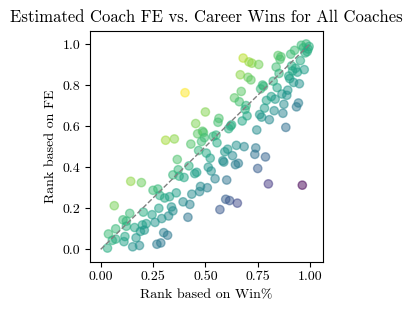
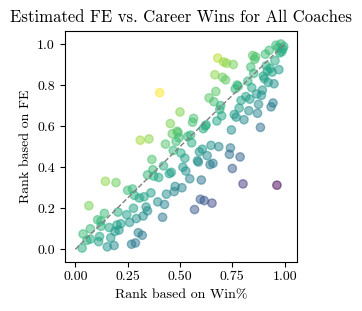
added table & updated chart (coach FE)

diff --git a/content/projects/coachfixedeffects.md b/content/projects/coachfixedeffects.md
@@ -3,16 +3,17 @@ date: 2020-04-01
 type: Sports Economics
 title: Quantifying the Coaching Effect in the NBA
 summary: The current analytics landscape lacks any systematic study of the coaching effect. I fill this gap by estimating a Coach-Fixed Effect model applied to the NBA. I find that the top coaches (e.g. Steve Kerr, K.C. Jones, Phil Jackson, and Greg Popovich), elevate team performance by as much as 20 wins per season. These estimated fixed effects are also useful in predicting team wins for future coach-team pairings. 
-featured_image: /images/posts/coaches/scatter_plot.png
-images: /images/posts/coaches/scatter_plot.png
+featured_image: /images/posts/coaches/scatter_plot_notitle.png
+images: /images/posts/coaches/scatter_plot_notitle.png
 draft: false
 weight: 1
 ---
 ![coach_faces] (/images/posts/coaches/thumbnail.png)
 
+
 ### Introduction
 
-At a Sloan Sports Analytic Conference, the moderator raised a question that had been on my mind for a while: "We have all these metrics for players, isn't it about time to have metrics for coaches?" It is quite evident, even to the casual fan, that some coaches are able to elevate team performance more than others. But the analytics community has yet to come up with a metric that systematically studies that. So, I've set out to fill this gap. 
+A few years ago at the Sloan Sports Analytic Conference, one of the moderators raised an important question, for which no panelist gave a clear answer: "We have all these metrics that capture player perfromance, isn't it time to have metrics for coaches?" It is quite evident, even to the casual observer, that some coaches are able to elevate team performance more than others. But the analytics community has yet to come up with a metric that systematically studies that. So, I've set out to fill this gap. 
 
 The project started as I was completing my Master's in Applied Economics, during which I happened to read a number of academic papers on sports economics. I came across [a paper](https://journals.sagepub.com/doi/abs/10.1177/1527002516674760)  on the impact of managers in the German Bundesliga, and decided to replicate the analysis on NBA coaches. I soon realized that the NBA was an ideal environment for two reasons:
 
@@ -77,3 +78,176 @@ My dataset covers all NBA teams between 1985 and 2018. The unit of observation i
 For a given coach in a given season *t*, I take into account the players' performance in season *t-1*. Specifically, I compute the roster's mean Value Over Replacement Player (VORP) from that season as a measure of its "quality".
 
 Using a 'fixed effect' regression model, I estimate the correlation between head coach identity and team wins for 209 head coaches (since 1985), while controlling for roster quality. What this produces is the [fixed effect](https://en.wikipedia.org/wiki/Fixed_effects_model) for each head coach. The resulting metric, which I am calling 'Coach Fixed Effect', measures the additional wins contributed, on average, while controlling for roster quality. 
+
+### Potential Shortcomings
+
+Since I use previous season performance as a proxy for player quality, these fixed effects could favor coaches with budding superstars (e.g. Scott Brooks with the Oklahoma City Thunder).
+
+As mentioned earlier, coaches with fewer observations (more recent careers) are subject to high standard errors. As such, they should be viewed with skepticism. For reference, the higher the 't-statistic', the lower the standard error.
+
+### Full Metrics
+
+Click [here](/files/results.csv) for a csv version of the below table.
+
+|     | Name               |Coach FE |    t_stat | Pct Rk (FE) | Pct Rk (Wins) |   Career Win% |
+|----:|:-------------------|--------:|----------:|------------:|--------------:|--------------:|
+|   0 | Nick Nurse         |   22.33 |      2.64 |           1 |          0.98 |          0.71 |
+|   1 | Danny Ainge        |   21.47 |      2.54 |        0.99 |          0.96 |          0.64 |
+|   2 | Steve Kerr         |   16.77 |      3.9  |        0.99 |          1    |          0.79 |
+|   3 | Gregg Popovich     |   16.65 |      8.53 |        0.98 |          0.97 |          0.69 |
+|   4 | Larry Bird         |   14.66 |      2.45 |        0.98 |          0.99 |          0.74 |
+|   5 | Tom Thibodeau      |   11.84 |      3.41 |        0.97 |          0.93 |          0.59 |
+|   6 | Billy Cunningham   |   11.63 |      1.37 |        0.96 |          0.99 |          0.72 |
+|   7 | Phil Jackson       |   11.35 |      5.65 |        0.96 |          0.98 |          0.7  |
+|   8 | Scott Brooks       |   11.11 |      3.68 |        0.95 |          0.91 |          0.59 |
+|   9 | Del Harris         |   10.99 |      3.64 |        0.94 |          0.85 |          0.55 |
+|  10 | Mike Budenholzer   |   10.7  |      2.82 |        0.94 |          0.86 |          0.55 |
+|  11 | Frank Layden       |   10.48 |      2.47 |        0.93 |          0.68 |          0.49 |
+|  12 | Kevin McHale       |   10.11 |      2.38 |        0.92 |          0.86 |          0.55 |
+|  13 | Pat Riley          |    9.75 |      4.87 |        0.92 |          0.95 |          0.64 |
+|  14 | Butch Carter       |    9.62 |      1.14 |        0.91 |          0.71 |          0.5  |
+|  15 | Scott Skiles       |    9.56 |      3.34 |        0.91 |          0.72 |          0.5  |
+|  16 | Frank Vogel        |    9.2  |      2.42 |        0.9  |          0.75 |          0.51 |
+|  17 | Jeff Van Gundy     |    9.11 |      3.02 |        0.89 |          0.91 |          0.59 |
+|  18 | Brad Stevens       |    8.66 |      2.28 |        0.89 |          0.84 |          0.55 |
+|  19 | Chuck Daly         |    8.64 |      3.33 |        0.88 |          0.93 |          0.61 |
+|  20 | K.C. Jones         |    8.59 |      2.22 |        0.88 |          0.97 |          0.7  |
+|  21 | Erik Spoelstra     |    8.46 |      3.12 |        0.87 |          0.92 |          0.59 |
+|  22 | Billy Donovan      |    8.32 |      1.7  |        0.86 |          0.94 |          0.61 |
+|  23 | Quin Snyder        |    8.28 |      1.95 |        0.86 |          0.85 |          0.55 |
+|  24 | Rick Pitino        |    8.13 |      1.91 |        0.85 |          0.67 |          0.48 |
+|  25 | Stan Van Gundy     |    8.11 |      2.99 |        0.84 |          0.9  |          0.58 |
+|  26 | Lionel Hollins     |    8.1  |      2.13 |        0.84 |          0.7  |          0.49 |
+|  27 | Rick Adelman       |    7.13 |      3.74 |        0.83 |          0.9  |          0.59 |
+|  28 | Dave Joerger       |    7.04 |      1.85 |        0.82 |          0.72 |          0.5  |
+|  29 | Rick Carlisle      |    7    |      3.24 |        0.82 |          0.82 |          0.55 |
+|  30 | George Karl        |    6.67 |      3.46 |        0.81 |          0.92 |          0.59 |
+|  31 | Mike Brown         |    6.66 |      2.05 |        0.81 |          0.95 |          0.62 |
+|  32 | Mike Schuler       |    6.61 |      1.35 |        0.8  |          0.77 |          0.53 |
+|  33 | Flip Saunders      |    6.19 |      2.6  |        0.79 |          0.78 |          0.53 |
+|  34 | Larry Brown        |    5.86 |      2.87 |        0.79 |          0.84 |          0.55 |
+|  35 | Doug Collins       |    5.82 |      2.15 |        0.78 |          0.76 |          0.52 |
+|  36 | Doc Rivers         |    5.81 |      2.75 |        0.78 |          0.89 |          0.58 |
+|  37 | Steve Clifford     |    5.68 |      1.49 |        0.77 |          0.67 |          0.48 |
+|  38 | J.B. Bickerstaff   |    5.62 |      0.66 |        0.76 |          0.4  |          0.39 |
+|  39 | Mike Fratello      |    5.47 |      2.2  |        0.76 |          0.87 |          0.56 |
+|  40 | Rudy Tomjanovich   |    5.39 |      1.99 |        0.75 |          0.89 |          0.57 |
+|  41 | Cotton Fitzsimmons |    5.26 |      1.5  |        0.74 |          0.81 |          0.54 |
+|  42 | Frank Johnson      |    5.21 |      0.62 |        0.74 |          0.64 |          0.47 |
+|  43 | Paul Westphal      |    5.17 |      1.49 |        0.73 |          0.83 |          0.55 |
+|  44 | Vinny Del Negro    |    5.01 |      1.32 |        0.72 |          0.79 |          0.54 |
+|  45 | Jim O'Brien        |    4.89 |      1.41 |        0.72 |          0.66 |          0.48 |
+|  46 | Jerry Sloan        |    4.7  |      2.34 |        0.71 |          0.94 |          0.61 |
+|  47 | Don Nelson         |    4.65 |      2.26 |        0.71 |          0.88 |          0.57 |
+|  48 | Jason Kidd         |    4.55 |      1.07 |        0.7  |          0.69 |          0.49 |
+|  49 | Tyronn Lue         |    4.54 |      0.54 |        0.69 |          0.94 |          0.61 |
+|  50 | Doug Moe           |    4.3  |      1.23 |        0.69 |          0.78 |          0.53 |
+|  51 | Mike Malone        |    4.17 |      0.98 |        0.68 |          0.69 |          0.49 |
+|  52 | Lenny Wilkens      |    3.94 |      1.88 |        0.68 |          0.83 |          0.55 |
+|  53 | Jeff Hornacek      |    3.82 |      0.78 |        0.67 |          0.5  |          0.43 |
+|  54 | Mike D'Antoni      |    3.7  |      1.36 |        0.66 |          0.87 |          0.56 |
+|  55 | Mark Jackson       |    3.56 |      0.73 |        0.66 |          0.76 |          0.51 |
+|  56 | Maurice Cheeks     |    3.07 |      0.88 |        0.65 |          0.7  |          0.49 |
+|  57 | Nate McMillan      |    2.97 |      1.2  |        0.64 |          0.77 |          0.52 |
+|  58 | Kevin Loughery     |    2.95 |      0.77 |        0.64 |          0.56 |          0.45 |
+|  59 | Dwane Casey        |    2.68 |      0.89 |        0.63 |          0.81 |          0.54 |
+|  60 | Brian Hill         |    2.22 |      0.64 |        0.62 |          0.68 |          0.48 |
+|  61 | Paul Silas         |    2.14 |      0.62 |        0.62 |          0.56 |          0.45 |
+|  62 | Randy Wittman      |    2.02 |      0.62 |        0.61 |          0.45 |          0.41 |
+|  63 | Dan Issel          |    1.87 |      0.44 |        0.61 |          0.62 |          0.46 |
+|  64 | Chris Ford         |    1.83 |      0.57 |        0.6  |          0.62 |          0.46 |
+|  65 | Avery Johnson      |    1.75 |      0.46 |        0.59 |          0.88 |          0.57 |
+|  66 | Dick Versace       |    1.69 |      0.2  |        0.59 |          0.61 |          0.46 |
+|  67 | Terry Stotts       |    1.34 |      0.44 |        0.58 |          0.75 |          0.51 |
+|  68 | Larry Drew         |    1.13 |      0.27 |        0.57 |          0.49 |          0.42 |
+|  69 | Fred Hoiberg       |    1.05 |      0.18 |        0.57 |          0.49 |          0.43 |
+|  70 | Dick Motta         |    0.87 |      0.25 |        0.56 |          0.46 |          0.41 |
+|  71 | Eric Musselman     |    0.84 |      0.17 |        0.56 |          0.55 |          0.44 |
+|  72 | Monty Williams     |    0.77 |      0.2  |        0.55 |          0.54 |          0.43 |
+|  73 | Stu Jackson        |    0.62 |      0.07 |        0.54 |          0.5  |          0.43 |
+|  74 | David Fizdale      |    0.25 |      0.04 |        0.54 |          0.35 |          0.37 |
+|  75 | Lloyd Pierce       |    0.06 |      0.01 |        0.53 |          0.31 |          0.35 |
+|  76 | Tyrone Corbin      |    0.05 |      0.01 |        0.52 |          0.48 |          0.42 |
+|  77 | P.J. Carlesimo     |    0.04 |      0.01 |        0.52 |          0.56 |          0.45 |
+|  78 | John Lucas         |    0.02 |      0.01 |        0.51 |          0.43 |          0.4  |
+|  79 | Dave Cowens        |    0.01 |      0    |        0.51 |          0.65 |          0.47 |
+|  80 | Bill Fitch         |   -0    |     -0    |        0.5  |          0.69 |          0.49 |
+|  81 | Jack Ramsay        |   -0.27 |     -0.06 |        0.49 |          0.74 |          0.51 |
+|  82 | Isiah Thomas       |   -0.28 |     -0.07 |        0.49 |          0.61 |          0.46 |
+|  83 | Mike Montgomery    |   -0.44 |     -0.07 |        0.48 |          0.47 |          0.41 |
+|  84 | Lawrence Frank     |   -0.5  |     -0.16 |        0.48 |          0.59 |          0.45 |
+|  85 | Bob Weiss          |   -0.51 |     -0.15 |        0.47 |          0.5  |          0.43 |
+|  86 | Allan Bristow      |   -0.56 |     -0.15 |        0.46 |          0.74 |          0.5  |
+|  87 | Mike Woodson       |   -0.8  |     -0.27 |        0.46 |          0.63 |          0.47 |
+|  88 | Stan Albeck        |   -0.8  |     -0.13 |        0.45 |          0.79 |          0.53 |
+|  89 | Gene Shue          |   -0.92 |     -0.15 |        0.44 |          0.52 |          0.43 |
+|  90 | Jeff Bzdelik       |   -0.98 |     -0.16 |        0.44 |          0.37 |          0.38 |
+|  91 | Randy Pfund        |   -1.02 |     -0.12 |        0.43 |          0.58 |          0.45 |
+|  92 | Bernie Bickerstaff |   -1.18 |     -0.44 |        0.42 |          0.59 |          0.45 |
+|  93 | Alvin Gentry       |   -1.21 |     -0.4  |        0.42 |          0.66 |          0.48 |
+|  94 | Mike Dunleavy      |   -1.34 |     -0.6  |        0.41 |          0.64 |          0.47 |
+|  95 | Luke Walton        |   -1.61 |     -0.27 |        0.41 |          0.42 |          0.4  |
+|  96 | Matt Guokas        |   -1.76 |     -0.51 |        0.4  |          0.51 |          0.43 |
+|  97 | Bob Hill           |   -1.82 |     -0.47 |        0.39 |          0.75 |          0.51 |
+|  98 | Don Casey          |   -1.85 |     -0.31 |        0.39 |          0.37 |          0.38 |
+|  99 | Sam Mitchell       |   -1.92 |     -0.5  |        0.38 |          0.53 |          0.43 |
+| 100 | Byron Scott        |   -1.97 |     -0.83 |        0.38 |          0.46 |          0.41 |
+| 101 | Don Chaney         |   -2.1  |     -0.7  |        0.37 |          0.45 |          0.41 |
+| 102 | Kenny Atkinson     |   -2.11 |     -0.35 |        0.36 |          0.34 |          0.37 |
+| 103 | Garry St. Jean     |   -2.11 |     -0.5  |        0.36 |          0.38 |          0.38 |
+| 104 | John Calipari      |   -2.59 |     -0.43 |        0.35 |          0.4  |          0.39 |
+| 105 | James Borrego      |   -2.63 |     -0.31 |        0.34 |          0.55 |          0.44 |
+| 106 | Jim Lynam          |   -2.74 |     -0.79 |        0.34 |          0.6  |          0.46 |
+| 107 | Gene Littles       |   -2.94 |     -0.35 |        0.33 |          0.14 |          0.28 |
+| 108 | Ron Rothstein      |   -3.15 |     -0.74 |        0.32 |          0.19 |          0.3  |
+| 109 | John MacLeod       |   -3.19 |     -0.75 |        0.32 |          0.8  |          0.54 |
+| 110 | David Blatt        |   -3.31 |     -0.39 |        0.31 |          0.96 |          0.67 |
+| 111 | Jimmy Rodgers      |   -3.47 |     -0.71 |        0.31 |          0.48 |          0.42 |
+| 112 | Eddie Jordan       |   -3.66 |     -1.14 |        0.3  |          0.51 |          0.43 |
+| 113 | Bill Cartwright    |   -3.68 |     -0.44 |        0.29 |          0.27 |          0.34 |
+| 114 | Darrell Walker     |   -3.77 |     -0.45 |        0.29 |          0.25 |          0.33 |
+| 115 | Reggie Theus       |   -4.11 |     -0.49 |        0.28 |          0.47 |          0.42 |
+| 116 | Wes Unseld         |   -4.13 |     -1.19 |        0.28 |          0.36 |          0.37 |
+| 117 | Kevin O'Neill      |   -4.47 |     -0.53 |        0.27 |          0.44 |          0.4  |
+| 118 | George Irvine      |   -4.71 |     -0.96 |        0.26 |          0.28 |          0.34 |
+| 119 | Brett Brown        |   -4.8  |     -1.26 |        0.26 |          0.33 |          0.36 |
+| 120 | Keith Smart        |   -4.85 |     -0.81 |        0.25 |          0.31 |          0.35 |
+| 121 | Hubie Brown        |   -4.91 |     -1    |        0.24 |          0.6  |          0.45 |
+| 122 | Terry Porter       |   -4.95 |     -0.83 |        0.24 |          0.62 |          0.46 |
+| 123 | Sam Vincent        |   -4.99 |     -0.59 |        0.23 |          0.39 |          0.39 |
+| 124 | Michael Curry      |   -5.48 |     -0.65 |        0.22 |          0.65 |          0.48 |
+| 125 | Phil Johnson       |   -5.68 |     -0.67 |        0.22 |          0.43 |          0.4  |
+| 126 | Dick Harter        |   -5.82 |     -0.69 |        0.21 |          0.06 |          0.23 |
+| 127 | Dave Wohl          |   -5.87 |     -0.98 |        0.21 |          0.34 |          0.36 |
+| 128 | John Wetzel        |   -6.06 |     -0.72 |        0.2  |          0.28 |          0.34 |
+| 129 | Paul Westhead      |   -6.14 |     -1.02 |        0.19 |          0.57 |          0.45 |
+| 130 | Butch Beard        |   -6.14 |     -1.03 |        0.19 |          0.34 |          0.37 |
+| 131 | Willis Reed        |   -6.35 |     -0.75 |        0.18 |          0.2  |          0.3  |
+| 132 | Earl Watson        |   -6.65 |     -0.79 |        0.18 |          0.14 |          0.28 |
+| 133 | Jerry Reynolds     |   -6.68 |     -0.79 |        0.17 |          0.25 |          0.33 |
+| 134 | Lon Kruger         |   -6.76 |     -1.13 |        0.16 |          0.32 |          0.36 |
+| 135 | Brian Shaw         |   -6.96 |     -0.82 |        0.16 |          0.42 |          0.4  |
+| 136 | John Kuester       |   -7.17 |     -1.2  |        0.15 |          0.29 |          0.35 |
+| 137 | Mike Dunlap        |   -7.56 |     -0.89 |        0.14 |          0.11 |          0.26 |
+| 138 | Jacque Vaughn      |   -8.25 |     -1.37 |        0.14 |          0.12 |          0.27 |
+| 139 | Johnny Davis       |   -8.46 |     -1    |        0.13 |          0.26 |          0.33 |
+| 140 | Larry Krystkowiak  |   -8.72 |     -1.03 |        0.12 |          0.22 |          0.31 |
+| 141 | Fred Carter        |   -9.06 |     -1.07 |        0.12 |          0.2  |          0.3  |
+| 142 | Bill Blair         |   -9.36 |     -1.11 |        0.11 |          0.12 |          0.27 |
+| 143 | Brendan Malone     |   -9.36 |     -1.11 |        0.11 |          0.16 |          0.29 |
+| 144 | Igor Kokoskov      |   -9.61 |     -1.14 |        0.1  |          0.07 |          0.23 |
+| 145 | Bill Musselman     |   -9.65 |     -1.61 |        0.09 |          0.21 |          0.3  |
+| 146 | Tim Floyd          |   -9.88 |     -2.02 |        0.09 |          0.19 |          0.3  |
+| 147 | Jay Triano         |  -10.59 |     -1.77 |        0.08 |          0.3  |          0.35 |
+| 148 | Quinn Buckner      |  -10.73 |     -1.26 |        0.08 |          0.04 |          0.16 |
+| 149 | Johnny Bach        |  -11.18 |     -1.87 |        0.07 |          0.32 |          0.36 |
+| 150 | Marc Iavaroni      |  -11.77 |     -1.39 |        0.06 |          0.12 |          0.27 |
+| 151 | M.L. Carr          |  -13.04 |     -2.18 |        0.06 |          0.17 |          0.29 |
+| 152 | Leonard Hamilton   |  -13.07 |     -1.55 |        0.05 |          0.07 |          0.23 |
+| 153 | Brian Winters      |  -13.28 |     -1.57 |        0.04 |          0.06 |          0.2  |
+| 154 | Sidney Lowe        |  -14.43 |     -2.95 |        0.04 |          0.11 |          0.26 |
+| 155 | Richie Adubato     |  -14.5  |     -2.42 |        0.03 |          0.29 |          0.35 |
+| 156 | Kurt Rambis        |  -16.21 |     -2.71 |        0.02 |          0.27 |          0.34 |
+| 157 | Derek Fisher       |  -18.67 |     -2.21 |        0.02 |          0.19 |          0.29 |
+| 158 | Jim Cleamons       |  -18.96 |     -2.24 |        0.01 |          0.15 |          0.29 |
+| 159 | Bill Hanzlik       |  -21.35 |     -2.53 |        0.01 |          0.03 |          0.13 |
